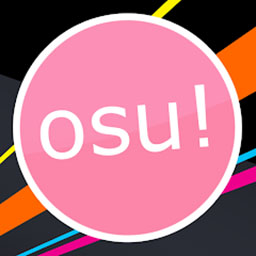
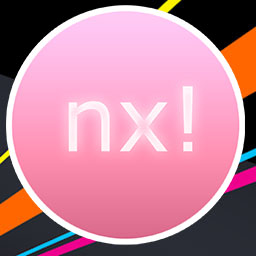
Clarify that this port is unofficial. Remove the osu! branding

diff --git a/osu!stream/GameModes/MainMenu/MainMenu.cs b/osu!stream/GameModes/MainMenu/MainMenu.cs
@@ -161,7 +161,7 @@ namespace osum.GameModes.MainMenu
                 headphones.Additive = true;
                 headphones.Transform(new TransformationF(TransformationType.Fade, 0, 1, 50, 200));
                 headphones.Transform(new TransformationF(TransformationType.Fade, 1, 1, 1000, initial_display));
-                spriteManager.Add(headphones);
+                spriteManager.Add(headphones);;
 
 #if !DIST
                 if (GameBase.Config.GetValue(@"MapperMode", true))
@@ -225,7 +225,14 @@ namespace osum.GameModes.MainMenu
                             GameBase.Config.SaveConfig();
                         });
 
-                    GameBase.Scheduler.Add(delegate { GameBase.Notify(notification); }, initial_display + 1500);
+                    GameBase.Scheduler.Add(delegate { 
+                        GameBase.Notify(new Notification("License", 
+                            "Nx!stream is an unofficial port of Osu!stream\n\n"+ 
+                            "Osu! and Osu!stream are owned by ppy and the Osu! team.\n" +
+                            "This port is not affiliated with the original authors in any way.\n", 
+                            NotificationStyle.Okay));
+                        GameBase.Notify(notification); 
+                    }, initial_display + 1500);
                 }
             }
             else

diff --git a/osu!stream/Support/Libnx/GameBaseLibnx.cs b/osu!stream/Support/Libnx/GameBaseLibnx.cs
@@ -12,7 +12,7 @@ namespace osum.Support.Libnx
     {
         public GameWindowLibnx Window;
 
-        override public string PathConfig => "sdmc:/osu-stream/";
+        override public string PathConfig => "sdmc:/nx-stream/";
 
         public GameBaseLibnx(OsuMode mode = OsuMode.Unknown) : base(mode)
         {
@@ -40,7 +40,7 @@ namespace osum.Support.Libnx
 
         protected override NativeAssetManager InitializeAssetManager()
         {
-            return new NativeAssetManager("sdmc:/osu-stream/");
+            return new NativeAssetManager("sdmc:/nx-stream/");
         }
 
 		public override void OpenUrl(string url)

diff --git a/osu!stream/UI/Notification.cs b/osu!stream/UI/Notification.cs
@@ -37,7 +37,7 @@ namespace osum.UI
                 DimImmune = true
             };
 
-            pText descText = new pText(description, 24, new Vector2(0, -90), new Vector2(900 * GameBase.SpriteToBaseRatio, 0), 1, true, Color4.White, false)
+            pText descText = new pText(description, 24, new Vector2(0, -90), new Vector2(1000 * GameBase.SpriteToBaseRatio, 0), 1, true, Color4.White, false)
             {
                 Field = FieldTypes.StandardSnapCentre,
                 Origin = OriginTypes.TopCentre,

diff --git a/osu!stream/GameModes/MainMenu/NewsButton.cs b/osu!stream/GameModes/MainMenu/NewsButton.cs
@@ -46,7 +46,7 @@ namespace osum.GameModes.MainMenu
             HasNews = false;
 
 #if LIBNX
-            if (File.Exists("sdmc:/osu-stream/test.mp3"))
+            if (File.Exists("sdmc:/nx-stream/test.mp3"))
             {
                 Director.ChangeMode(OsuMode.OffsetTest);
                 return;

diff --git a/osu!stream/Support/Libnx/GameWindowLibnx.cs b/osu!stream/Support/Libnx/GameWindowLibnx.cs
@@ -32,6 +32,8 @@ namespace osum.Support.Libnx
 
         void AppletOperationModeChange(Applet.AppletOperationMode mode)
         {
+            return;
+
             Logging.Write($"Operation mode change detected: {mode}");
             (Director.CurrentMode as Player)?.Pause();
             

diff --git a/mono-nx/shared/core.h b/mono-nx/shared/core.h
@@ -23,7 +23,7 @@
 #include <mono/utils/mono-logger.h>
 #include <mono/utils/mono-dl-fallback.h>
 
-#define CONFIG_INI_PATH "sdmc:/osu-stream/mono_config.ini"
+#define CONFIG_INI_PATH "sdmc:/nx-stream/mono_config.ini"
 
 struct AppConfiguration
 {

diff --git a/README.md b/README.md
@@ -1,8 +1,10 @@
-# osu-stream-nx
+# Nx!Stream
 
-This is a switch homebrew port of osu!stream on top of the [mono runtime port](https://github.com/exelix11/mono-nx). To run this on your console you will need one that is able of running homebrew. To add additional maps to the ones provided in the original repo you will need to extract them from the android or ios version of the game.
+Nx!Stream is a homebrew port of [osu!stream](https://github.com/ppy/osu-stream) for the nintendo switch. Osu! and osu!stream are owned by ppy and the osu! team. This port is an independent effort and is not affiliated with the original authors in any way. This port is provided under the same MIT license as the original project.
 
-Currently this repository does not ship binary releases as per licensing requirements, you will need to build the game and collect the needed assets yourself.
+To run this on your console you will need one that is able of running homebrew. To add additional maps to the ones provided in the original repo you will need to extract them from the android or ios version of the game. 
+
+This project uses the [mono-nx runtime](https://github.com/exelix11/mono-nx).
 
 ## Port features and limitations
 
